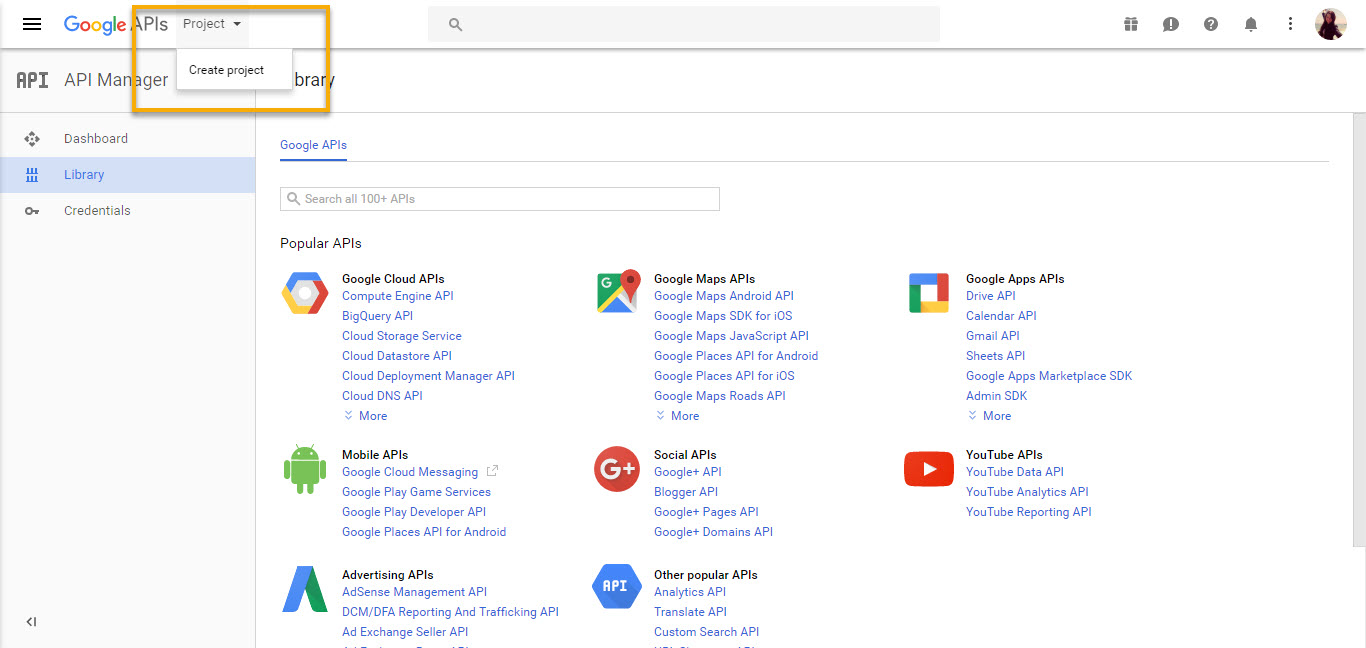
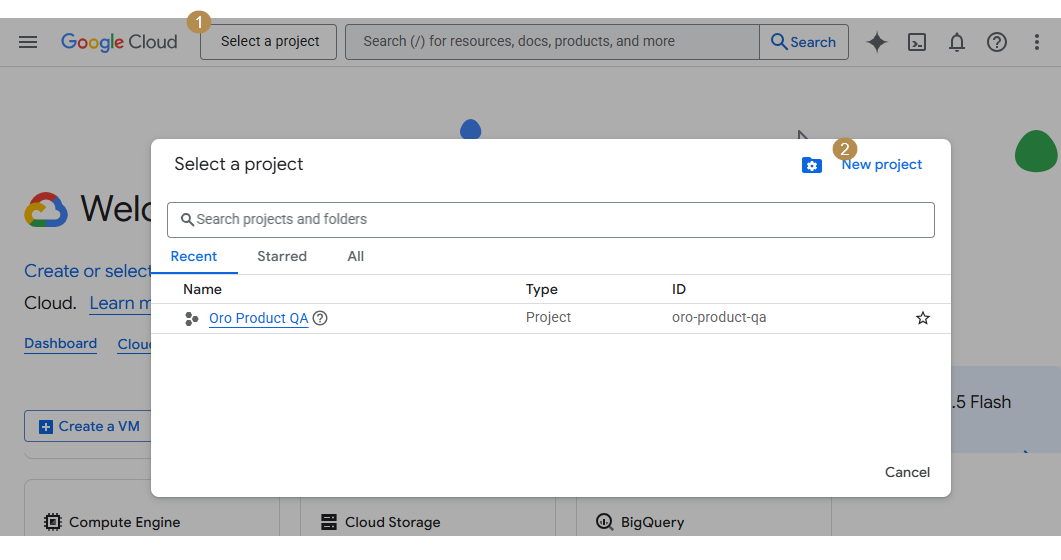
DOC-2401: Update the Google SSO user doc and screens following the changes in Google (#41994)

diff --git a/user/back-office/system/configuration/system/integrations/google-settings/google-single-sign-on.rst b/user/back-office/system/configuration/system/integrations/google-settings/google-single-sign-on.rst
@@ -14,73 +14,55 @@ Create Project
 To configure single sign-on on the Google side:
 
 1. Open |Google API Console|.
-2. Navigate to **My Project** selector in the top left corner and click **Create Project**.
+2. Click **My Project** selector in the top left corner to open a popup form.
+3. Click **New Project** at the top right.
 
    .. image:: /user/img/google/create_project.png
       :alt: Create a project in the Google API console
 
-3. Define the **Project Name** and click **Create**.
+4. Define the **Project Name** and select the **Location**.
+5. Click **Create**.
 
-   .. image:: /user/img/google/new_project.jpg
+   .. image:: /user/img/google/new_project.png
       :alt: A new project page
 
 Create Credentials
 ^^^^^^^^^^^^^^^^^^
 
-1. Click **Credentials** in the menu on the left and open the **Credentials** tab.
+1. Navigate to **API & Services > Credentials** in the menu on the left.
 
-   .. image:: /user/img/google/create_credentials.jpg
-      :alt: The Credentials tab details
+2. Click **+ Create Credentials** and then click **0Auth client ID.**
 
-2. Click **Create Credentials** and select **0Auth client ID.**
+   .. image:: /user/img/google/create_credentials.png
+      :alt: The Credentials menu details
 
-   .. image:: /user/img/google/create_credentials_2.jpg
-      :alt: A list of available credential options
+3. To create an OAuth client ID, set the **Application Type** to **Web Application** to load more settings depending on the selected type.
 
-3. To create an OAuth client ID, first set a product name on the consent screen.
+4. Enter the **Name** of your OAuth client.  This name is only used to identify the client in the console and will not be shown to end users.
 
-Configure Consent Form
-^^^^^^^^^^^^^^^^^^^^^^
-
-1. Click **Configure Consent Screen**.
-
-   .. image:: /user/img/google/consent_form.jpg
-      :alt: Settings under the Credentials menu
-
-2. Complete the form by providing the following details:
-
-  -  Your email address
-  -  Project name
-  -  Homepage URL
-  -  Product logo
-  -  Private Policy URL
-  -  Terms of Service URL
-
-  .. image:: /user/img/google/complete_form.jpg
-     :alt: The details you need to provide to configure the consent form
-
-3. Click **Save** to launch the **Create Client ID** page.
-4. Set the **Application Type** to **Web Application**.
 5. For **Authorized JavaScript Origins**, enter the URL of the Oro application instance for which single sign-on is being enabled.
+
 6. **Authorized Redirect URIs** are unified resource names used for the interaction between Google and the Oro application instance. It is recommended to add the following two values:
 
    * [Oro application instance URL]/admin/login/check-google
    * [Oro application instance URL]/index.php/admin/login/check-google
 
-7. Click **Create Client ID**.
-
-   .. image:: /user/img/google/create_id.jpg
-      :alt: The Create Client ID page
+.. image:: /user/img/google/create_credentials_form.png
+   :alt: The details you need to provide to configure to create OAuth client ID
 
 .. note:: Please pay attention to the **Authorized Redirect URIs**, the value from the **System > Configuration > Integrations > Google Settings > Google Integration Settings > Redirect URI** must be added in Authorized Redirect URIs configuration.
 
-8. Your client ID is generated.
+7. Click **Create**.
 
-   .. image:: /user/img/google/id_secret.jpg
-      :alt: OAuth client ID and secret
+8. Your **Client ID** and **Client Secret** are generated. For security reasons, the Client Secret is displayed only once -- immediately after you have created a new OAuth client. You cannot view the Client Secret anywhere in the application once you close this dialog, so make sure you save it somewhere safe to access it later.
 
-   .. image:: /user/img/google/id_secret_2.jpg
-      :alt: A new client ID is added to the list of all IDs
+.. image:: /user/img/google/id_secret.png
+   :alt: OAuth client ID and secret
+
+The client ID can always be accessed from the **Google Auth Platform > Clients** main menu.
+
+.. image:: /user/img/google/clients_id_secret.png
+   :alt: OAuth client ID under Google Auth Platform > Clients menu
 
 
 Oro Application Side
@@ -108,7 +90,7 @@ Log in with Google
 
 When a user opens the login page of the instance with the enabled single sign-on capability, the **Login Using Google** link is displayed.
 
-.. image:: /user/img/google/login_using_google.jpg
+.. image:: /user/img/google/login_using_google.png
    :alt: The login page with the link to log in via google
 
 If the user is not logged into their Google account, then clicking the button triggers opening a usual Google login page.
